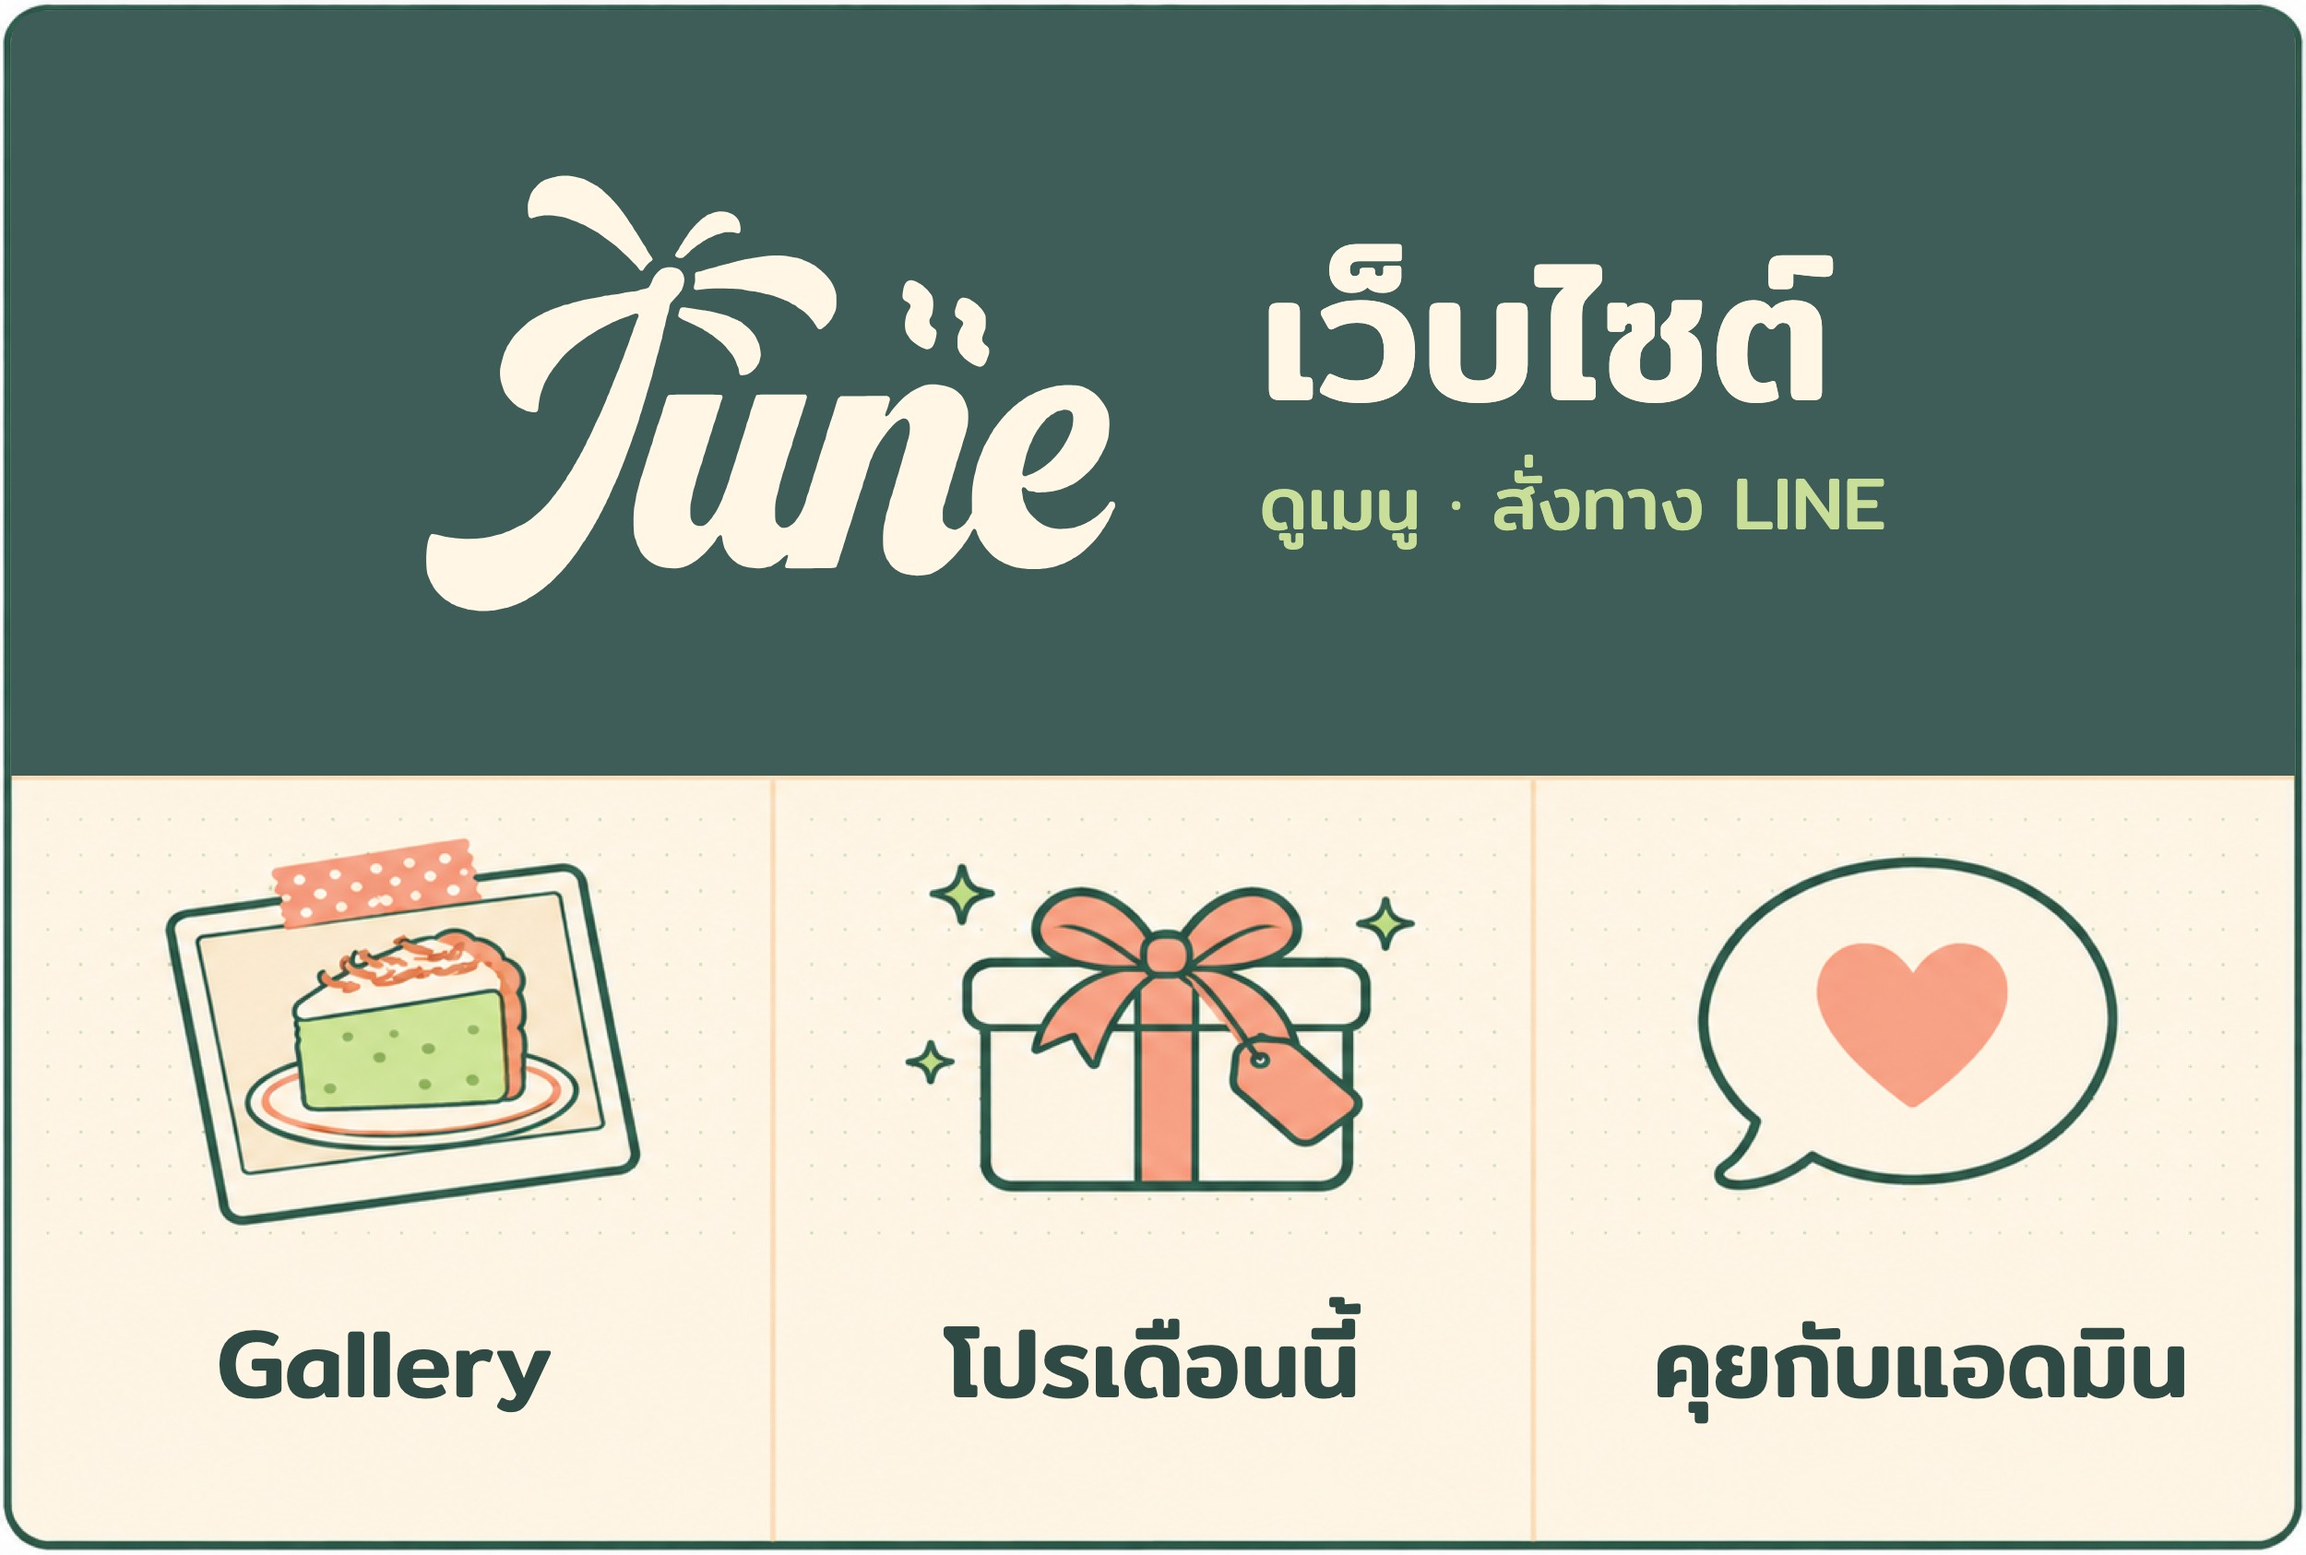
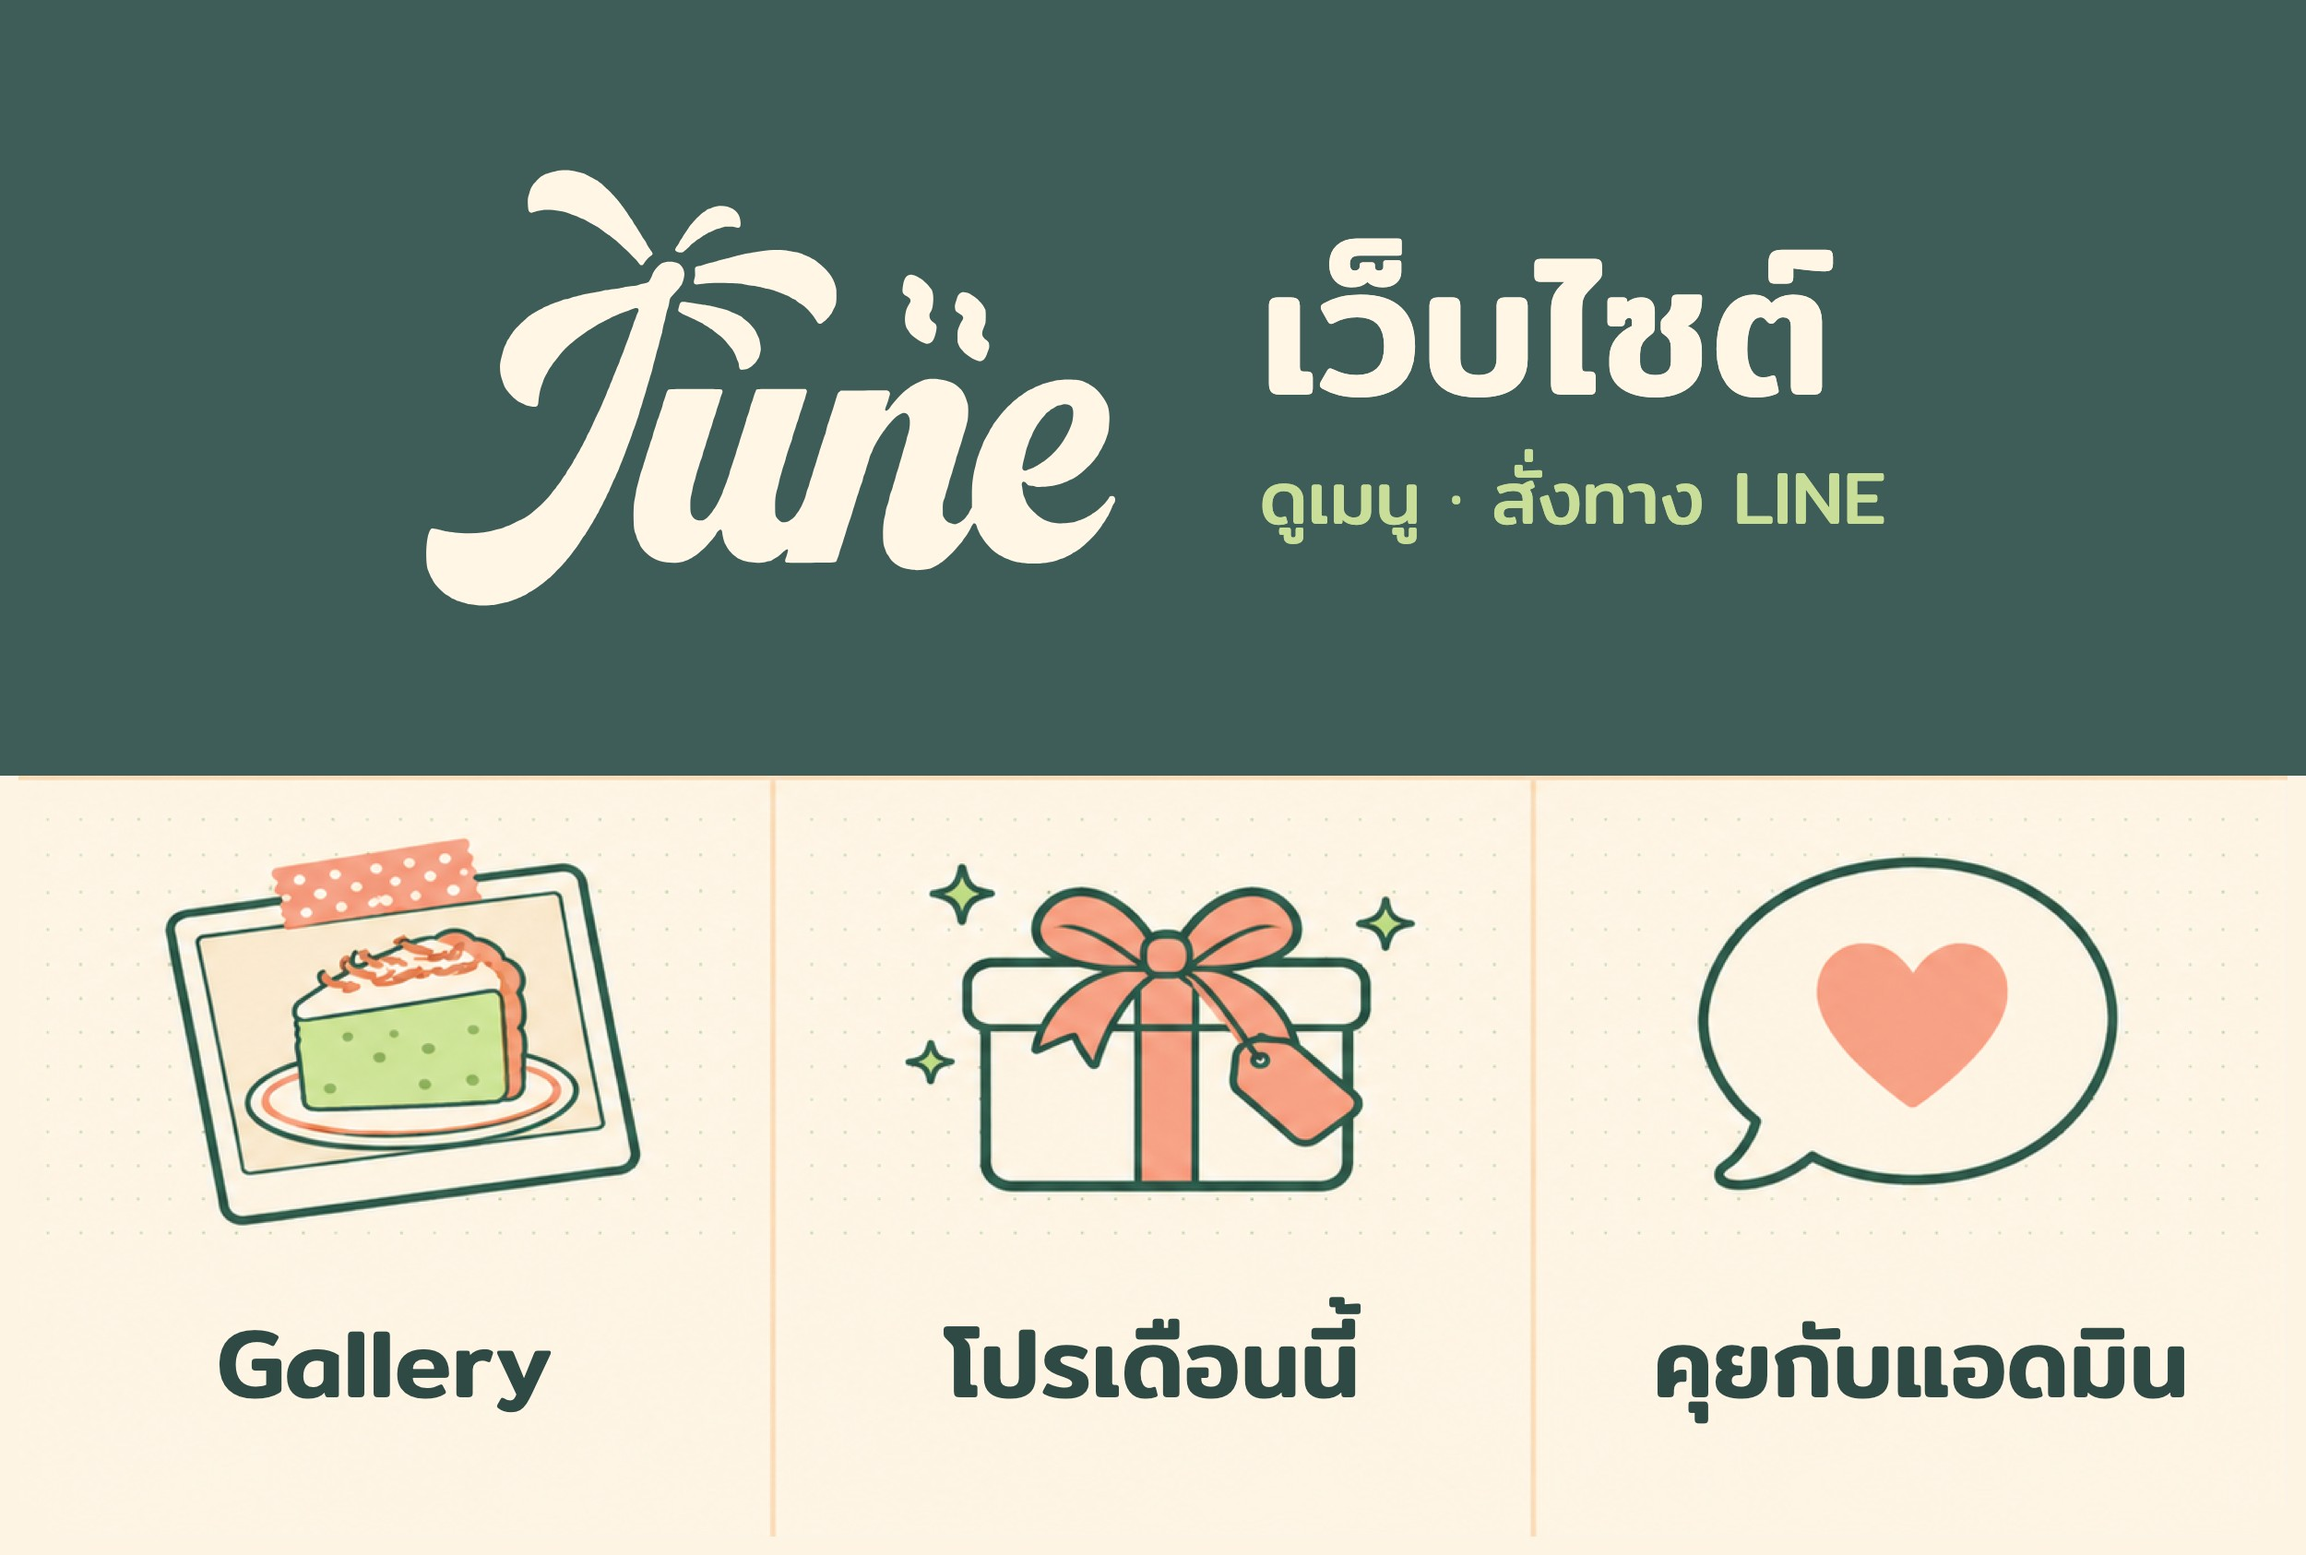
rich menu v3 full bleed: no outer frame or white corners

diff --git a/line-assets/rich-menu-v3.html b/line-assets/rich-menu-v3.html
@@ -5,7 +5,7 @@
 <link href="https://fonts.googleapis.com/css2?family=Mitr:wght@400;500&display=block" rel="stylesheet">
 <style>
 /* Rich menu v3, large (2500x1686): 1 wide on top + 3 below. Background drawn with AI (rich-menu-background-v3.png),
-   labels set here so the Thai text is crisp. The top is covered by a dark green panel (cream June logo, like the /box header). Areas: top = เว็บไซต์ -> /, bottom left to right: Gallery -> /gallery/,
+   labels set here so the Thai text is crisp. Full bleed (no outer frame). The top is covered by a dark green panel (cream June logo, like the /box header). Areas: top = เว็บไซต์ -> /, bottom left to right: Gallery -> /gallery/,
    โปรเดือนนี้ -> /promo, คุยกับแอดมิน -> chat. */
 *{margin:0;box-sizing:border-box}
 html,body{width:2500px;height:1686px;overflow:hidden;background:#FFF6E6}
@@ -14,16 +14,23 @@ body{background:url(rich-menu-background-v3.png) 0 0/100% 100% no-repeat;positio
 .top b{font:500 190px/1 Mitr,sans-serif}
 .top span{font:400 76px/1.2 Mitr,sans-serif;margin-top:34px;color:#5d7a73}
 /* dark green top like the /box header: cream June logo + cream label (covers the drawn shop) */
-.hero{position:absolute;left:12px;top:12px;width:2476px;height:829px;border-radius:34px 34px 0 0;background:#3E5D58;display:flex;align-items:center;justify-content:center;gap:150px}
+.hero{position:absolute;left:0;top:0;width:2500px;height:841px;background:#3E5D58;display:flex;align-items:center;justify-content:center;gap:150px}
 .hero img{width:760px}
 .hero div{display:flex;flex-direction:column;align-items:flex-start;color:#FFF6E6}
 .hero b{font:500 200px/1 Mitr,sans-serif}
 .hero span{font:400 80px/1.2 Mitr,sans-serif;margin-top:36px;color:#C9DE98}
+/* full bleed: paint over the drawn outer border and its white corners, so LINE shows no frame in light or dark mode */
+.edge{position:absolute;background:#FEF4E4}
 .bot{position:absolute;top:1425px;width:833px;text-align:center;font:500 104px/1 Mitr,sans-serif}
 </style>
 </head>
 <body>
   <div class="hero"><img src="june-mark-cream.svg" alt=""><div><b>เว็บไซต์</b><span>ดูเมนู · สั่งทาง LINE</span></div></div>
+  <div class="edge" style="left:0;top:841px;width:20px;bottom:0"></div>
+  <div class="edge" style="right:0;top:841px;width:20px;bottom:0"></div>
+  <div class="edge" style="left:0;right:0;bottom:0;height:20px"></div>
+  <div class="edge" style="left:0;bottom:0;width:52px;height:52px"></div>
+  <div class="edge" style="right:0;bottom:0;width:52px;height:52px"></div>
   <div class="bot" style="left:0">Gallery</div>
   <div class="bot" style="left:833px">โปรเดือนนี้</div>
   <div class="bot" style="left:1666px">คุยกับแอดมิน</div>

diff --git a/CHANGELOG.md b/CHANGELOG.md
@@ -5,6 +5,9 @@
 
 ## [Unreleased]
 
+### Changed
+- rich menu v3 เต็มขอบ: เอากรอบเขียวกับมุมขาวรอบรูปออก ใน LINE จะไม่เห็นขอบขาวทั้งธีมสว่างและธีมมืด
+
 ## [0.16.1] - 2026-11-19
 
 ### Fixed
